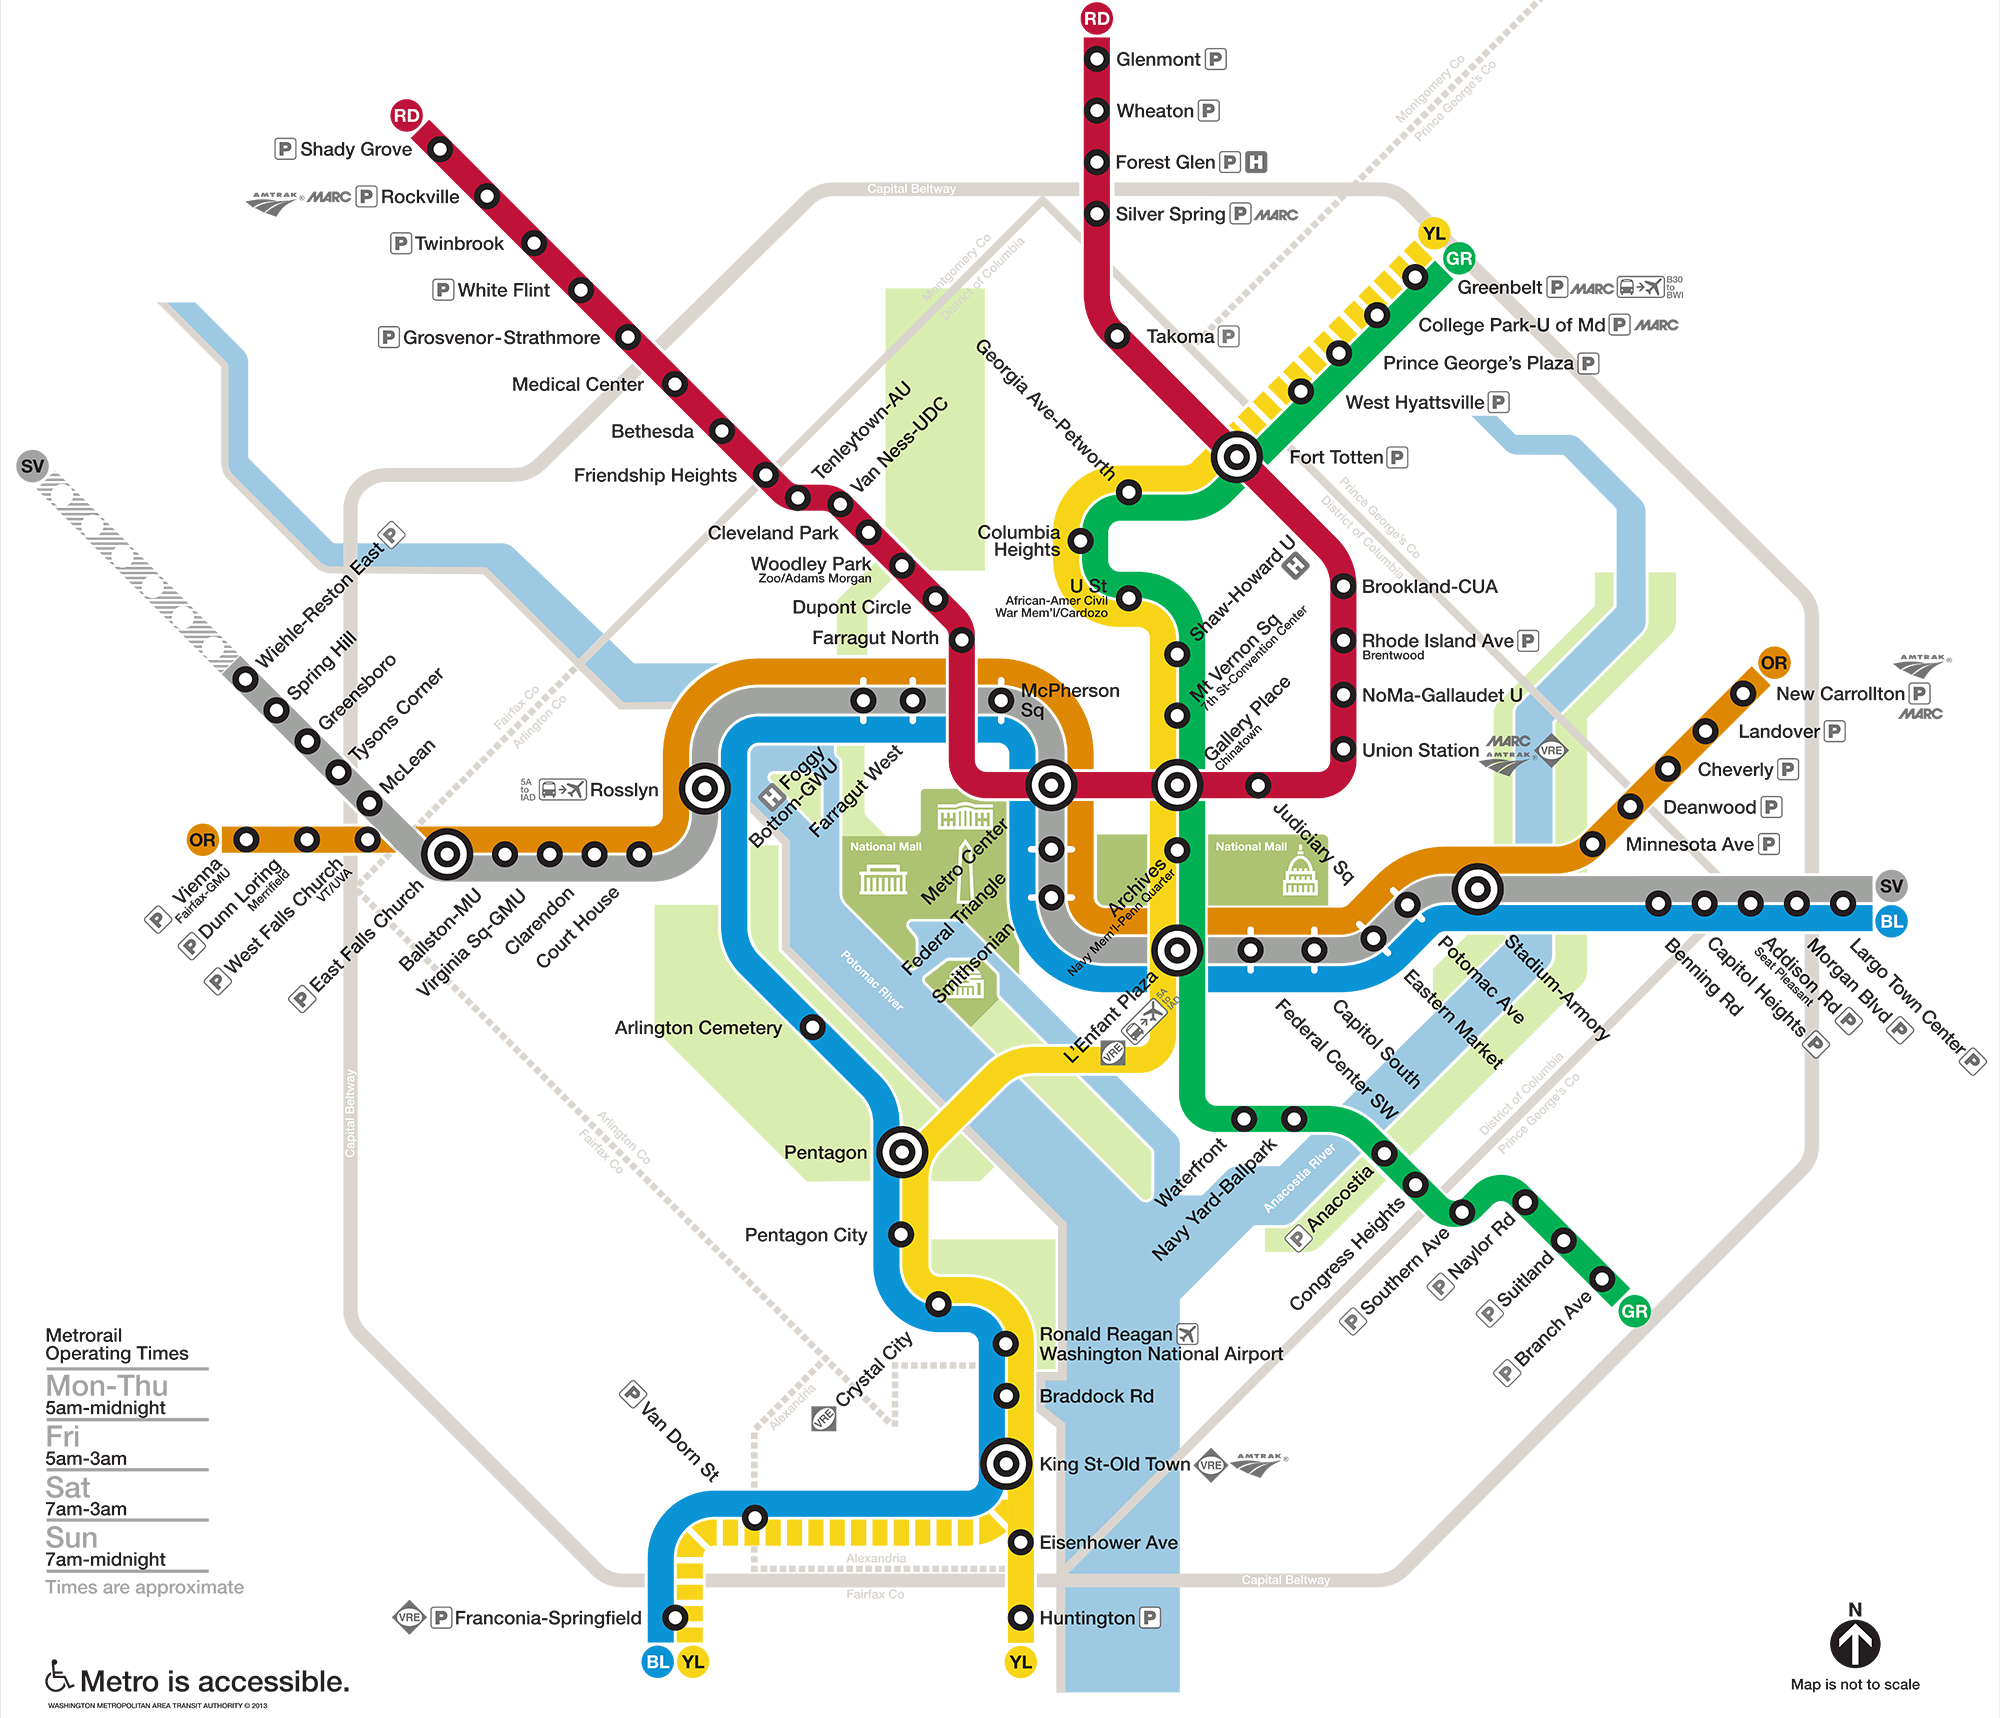
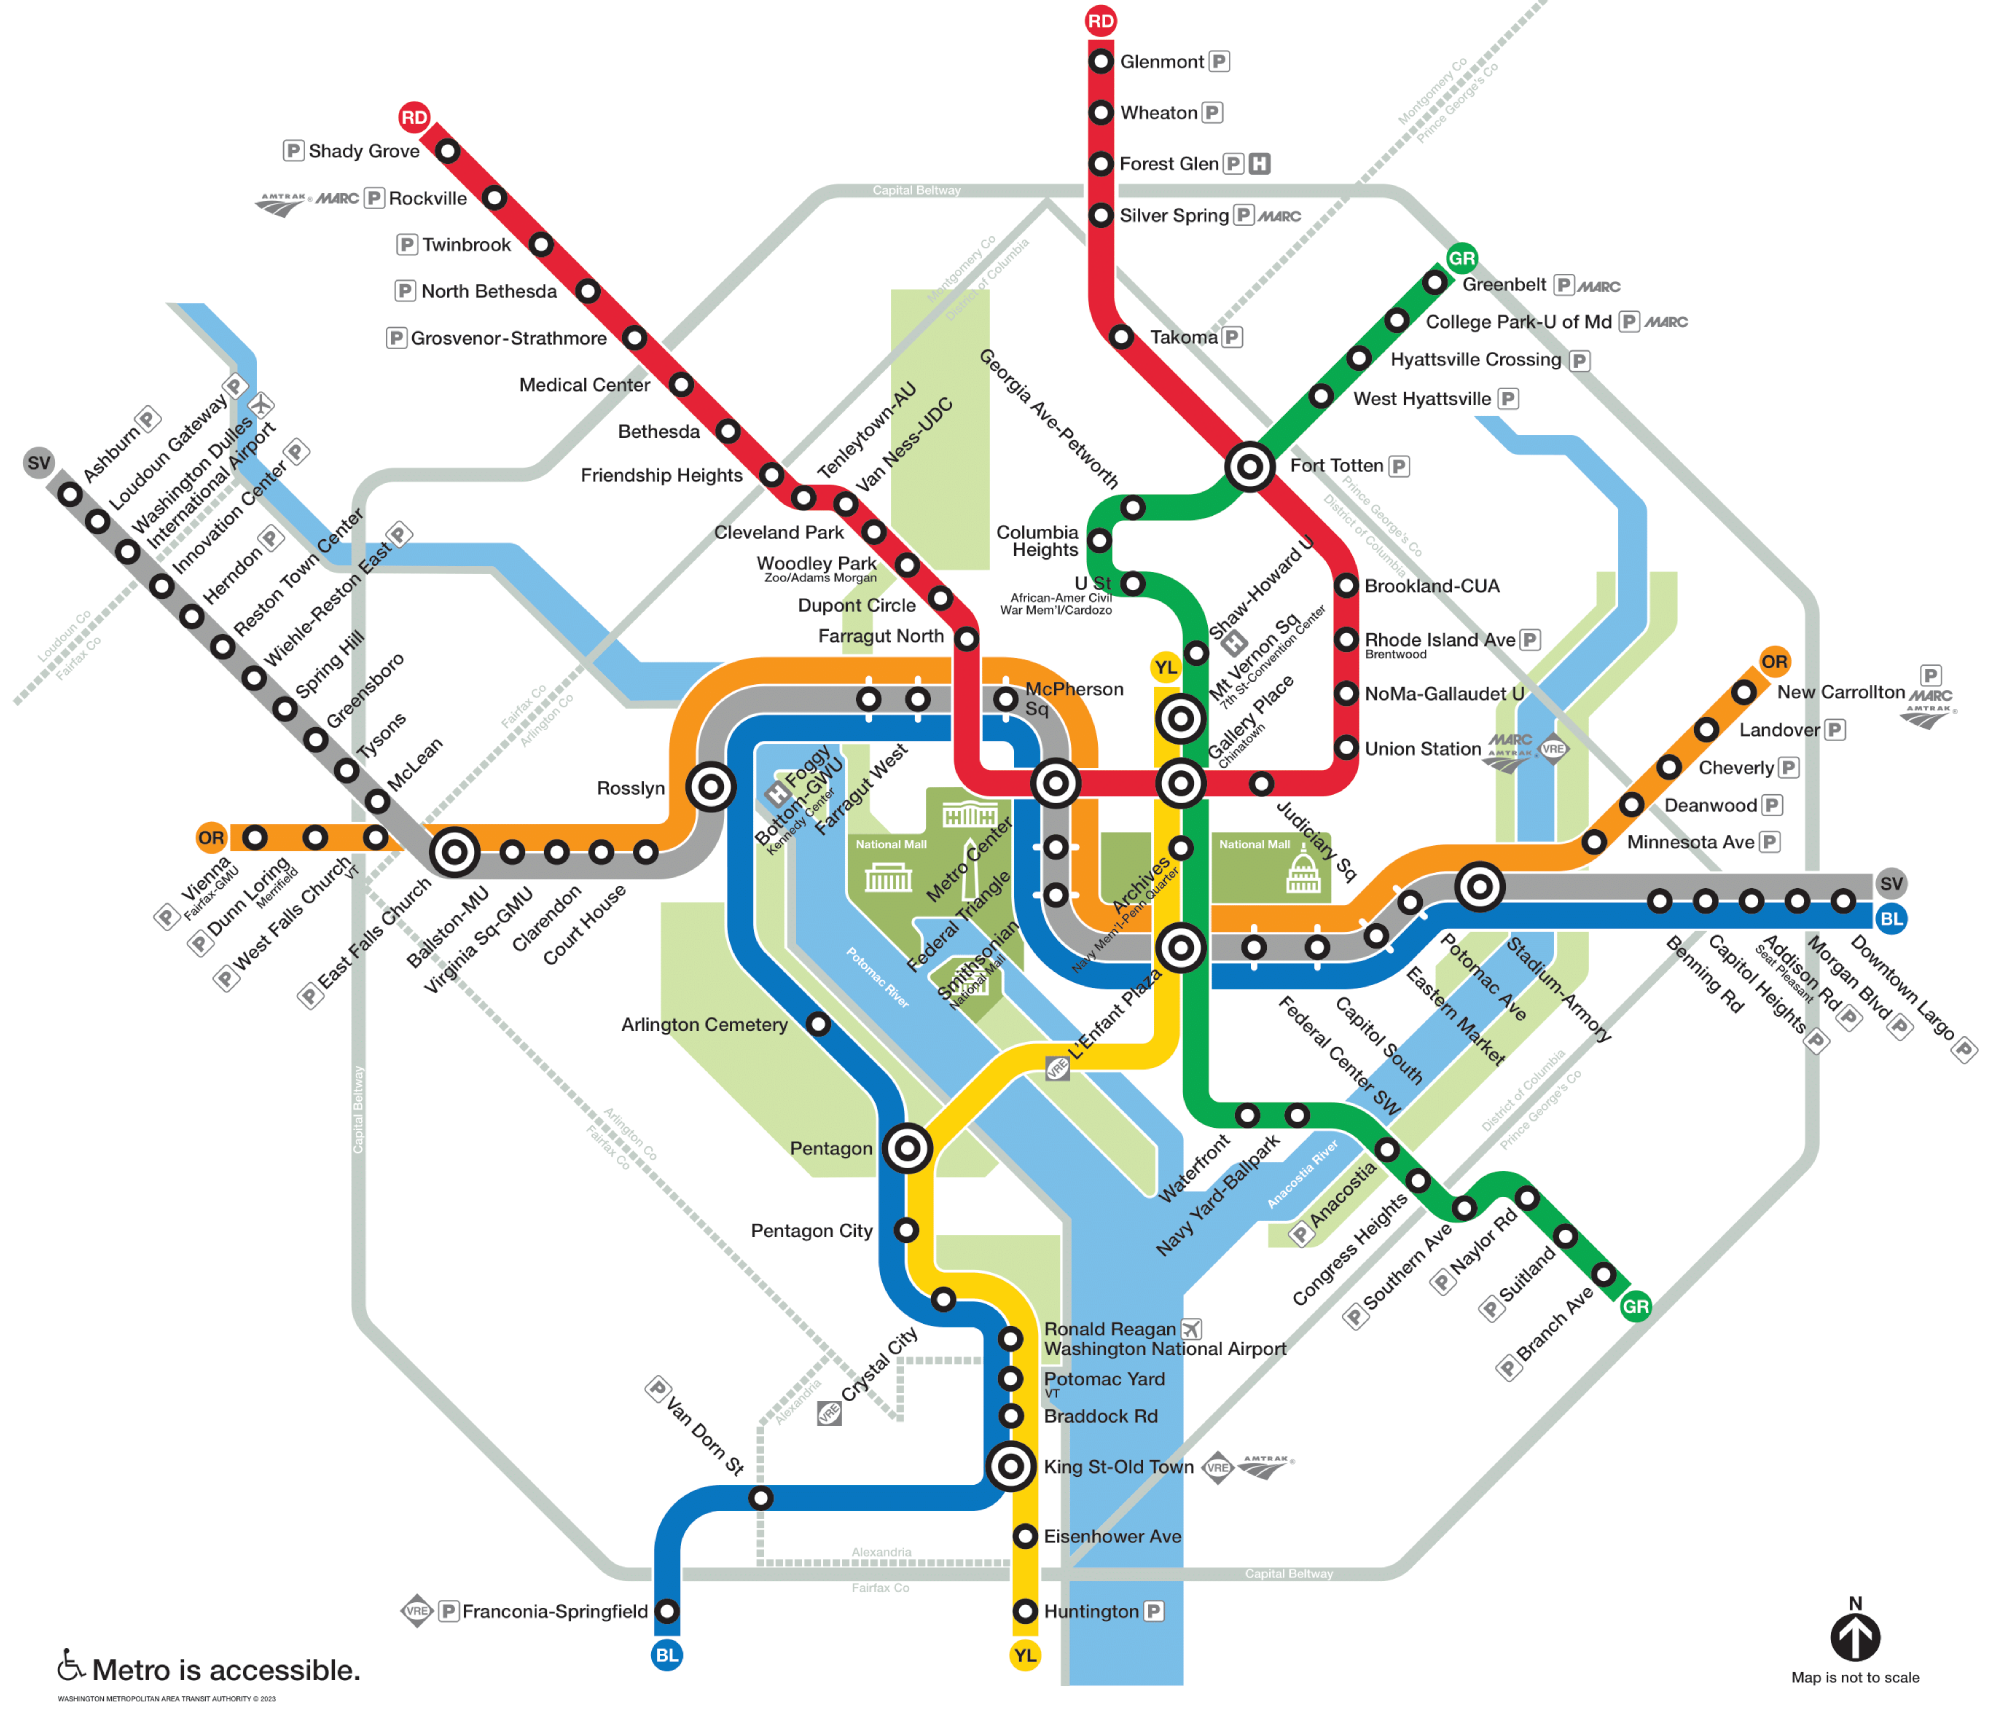
Add the rest of the silver line

diff --git a/dc-metro-silver.html b/dc-metro-silver.html
@@ -27,6 +27,12 @@
 <area shape="poly" coords="918,998,1035,882,1084,881,1085,914,939,1017" href="#D02">
 <area shape="poly" coords="917,989,917,989,1035,874,1075,873,1070,830,1037,836,886,963" href="#D01">
 <area shape="poly" coords="899,890,926,923,1098,784,1049,745" href="#C01">
+<area shape="poly" coords="33,491,156,378,185,408,64,523" href="#N12">
+<area shape="poly" coords="63,525,91,555,273,375,250,346" href="#N11">
+<area shape="poly" coords="93,557,125,590,305,408,278,373" href="#N10">
+<area shape="poly" coords="126,592,158,619,338,445,308,412" href="#N09">
+<area shape="poly" coords="160,622,186,654,363,475,340,449" href="#N08">
+<area shape="poly" coords="190,656,218,682,395,506,367,481" href="#N07">
 <area shape="poly" coords="219,677,243,708,422,534,392,509" href="#N06">
 <area shape="poly" coords="247,712,272,734,382,631,352,609" href="#N04">
 <area shape="poly" coords="282,738,304,765,417,657,389,637" href="#N03">

diff --git a/Classes/MetroTabBarAppDelegate.m b/Classes/MetroTabBarAppDelegate.m
@@ -41,6 +41,7 @@
   [self.listOfStations addObject:[NSDictionary dictionaryWithObjectsAndKeys:@"Anacostia", @"name", @"F06", @"site", @"g", @"colorImage", nil]];
   [self.listOfStations addObject:[NSDictionary dictionaryWithObjectsAndKeys:@"Archives-Navy Memorial-Penn Quarter", @"name", @"F02", @"site", @"gy", @"colorImage", nil]];
   [self.listOfStations addObject:[NSDictionary dictionaryWithObjectsAndKeys:@"Arlington Cemetery", @"name", @"C06", @"site", @"b", @"colorImage", nil]];
+  [self.listOfStations addObject:[NSDictionary dictionaryWithObjectsAndKeys:@"Ashburn", @"name", @"N12", @"site", @"s", @"colorImage", nil]];
   [self.listOfStations addObject:[NSDictionary dictionaryWithObjectsAndKeys:@"Ballston-MU", @"name", @"K04", @"site", @"o", @"colorImage", nil]];
   [self.listOfStations addObject:[NSDictionary dictionaryWithObjectsAndKeys:@"Benning Road", @"name", @"G01", @"site", @"b", @"colorImage", nil]];
   [self.listOfStations addObject:[NSDictionary dictionaryWithObjectsAndKeys:@"Bethesda", @"name", @"A09", @"site", @"r", @"colorImage", nil]];
@@ -78,12 +79,15 @@
   [self.listOfStations addObject:[NSDictionary dictionaryWithObjectsAndKeys:@"Greenbelt", @"name", @"E10", @"site", @"g", @"colorImage", nil]];
   [self.listOfStations addObject:[NSDictionary dictionaryWithObjectsAndKeys:@"Greensboro", @"name", @"N03", @"site", @"s", @"colorImage", nil]];
   [self.listOfStations addObject:[NSDictionary dictionaryWithObjectsAndKeys:@"Grosvenor-Strathmore", @"name", @"A11", @"site", @"r", @"colorImage", nil]];
+  [self.listOfStations addObject:[NSDictionary dictionaryWithObjectsAndKeys:@"Herndon", @"name", @"N08", @"site", @"s", @"colorImage", nil]];
   [self.listOfStations addObject:[NSDictionary dictionaryWithObjectsAndKeys:@"Huntington", @"name", @"C15", @"site", @"y", @"colorImage", nil]];
+  [self.listOfStations addObject:[NSDictionary dictionaryWithObjectsAndKeys:@"Innovation Center", @"name", @"N09", @"site", @"s", @"colorImage", nil]];
   [self.listOfStations addObject:[NSDictionary dictionaryWithObjectsAndKeys:@"Judiciary Square", @"name", @"B02", @"site", @"r", @"colorImage", nil]];
   [self.listOfStations addObject:[NSDictionary dictionaryWithObjectsAndKeys:@"King St-Old Town", @"name", @"C13", @"site", @"by", @"colorImage", nil]];
   [self.listOfStations addObject:[NSDictionary dictionaryWithObjectsAndKeys:@"L'Enfant Plaza", @"name", @"F03,D03", @"site", @"bogy", @"colorImage", nil]];
   [self.listOfStations addObject:[NSDictionary dictionaryWithObjectsAndKeys:@"Landover", @"name", @"D12", @"site", @"o", @"colorImage", nil]];
   [self.listOfStations addObject:[NSDictionary dictionaryWithObjectsAndKeys:@"Largo Town Center", @"name", @"G05", @"site", @"b", @"colorImage", nil]];
+  [self.listOfStations addObject:[NSDictionary dictionaryWithObjectsAndKeys:@"Loudon Gateway", @"name", @"N11", @"site", @"s", @"colorImage", nil]];
   [self.listOfStations addObject:[NSDictionary dictionaryWithObjectsAndKeys:@"McLean", @"name", @"N01", @"site", @"s", @"colorImage", nil]];
   [self.listOfStations addObject:[NSDictionary dictionaryWithObjectsAndKeys:@"McPherson Square", @"name", @"C02", @"site", @"bo", @"colorImage", nil]];
   [self.listOfStations addObject:[NSDictionary dictionaryWithObjectsAndKeys:@"Medical Center", @"name", @"A10", @"site", @"r", @"colorImage", nil]];
@@ -99,6 +103,7 @@
   [self.listOfStations addObject:[NSDictionary dictionaryWithObjectsAndKeys:@"Pentagon City", @"name", @"C08", @"site", @"by", @"colorImage", nil]];
   [self.listOfStations addObject:[NSDictionary dictionaryWithObjectsAndKeys:@"Potomac Ave", @"name", @"D07", @"site", @"bo", @"colorImage", nil]];
   [self.listOfStations addObject:[NSDictionary dictionaryWithObjectsAndKeys:@"Prince George's Plaza", @"name", @"E08", @"site", @"g", @"colorImage", nil]];
+  [self.listOfStations addObject:[NSDictionary dictionaryWithObjectsAndKeys:@"Reston Town Center", @"name", @"N07", @"site", @"s", @"colorImage", nil]];
   [self.listOfStations addObject:[NSDictionary dictionaryWithObjectsAndKeys:@"Rhode Island Ave-Brentwood", @"name", @"B04", @"site", @"r", @"colorImage", nil]];
   [self.listOfStations addObject:[NSDictionary dictionaryWithObjectsAndKeys:@"Rockville", @"name", @"A14", @"site", @"r", @"colorImage", nil]];
   [self.listOfStations addObject:[NSDictionary dictionaryWithObjectsAndKeys:@"Ronald Reagan Washington National Airport", @"name", @"C10", @"site", @"by", @"colorImage", nil]];
@@ -121,6 +126,7 @@
   [self.listOfStations addObject:[NSDictionary dictionaryWithObjectsAndKeys:@"Van Ness-UDC", @"name", @"A06", @"site", @"r", @"colorImage", nil]];
   [self.listOfStations addObject:[NSDictionary dictionaryWithObjectsAndKeys:@"Vienna/Fairfax-GMU", @"name", @"K08", @"site", @"o", @"colorImage", nil]];
   [self.listOfStations addObject:[NSDictionary dictionaryWithObjectsAndKeys:@"Virginia Square-GMU", @"name", @"K03", @"site", @"o", @"colorImage", nil]];
+  [self.listOfStations addObject:[NSDictionary dictionaryWithObjectsAndKeys:@"Washingotn Dulles International Airport", @"name", @"N10", @"site", @"s", @"colorImage", nil]];
   [self.listOfStations addObject:[NSDictionary dictionaryWithObjectsAndKeys:@"Waterfront", @"name", @"F04", @"site", @"g", @"colorImage", nil]];
   [self.listOfStations addObject:[NSDictionary dictionaryWithObjectsAndKeys:@"West Falls Church-VT/UVA", @"name", @"K06", @"site", @"o", @"colorImage", nil]];
   [self.listOfStations addObject:[NSDictionary dictionaryWithObjectsAndKeys:@"West Hyattsville", @"name", @"E07", @"site", @"g", @"colorImage", nil]];
@@ -135,6 +141,7 @@
   [self.listofStationsMap addObject:@{@"old_id": @"85", @"new_id": @"F06", @"new_name": @"Anacostia"}];
   [self.listofStationsMap addObject:@{@"old_id": @"81", @"new_id": @"F02", @"new_name": @"Archives-Navy Memorial-Penn Quarter"}];
   [self.listofStationsMap addObject:@{@"old_id": @"42", @"new_id": @"C06", @"new_name": @"Arlington Cemetery"}];
+  [self.listofStationsMap addObject:@{@"old_id": @"121", @"new_id": @"N12", @"new_name": @"Ashburn"}];
   [self.listofStationsMap addObject:@{@"old_id": @"99", @"new_id": @"K04", @"new_name": @"Ballston-MU"}];
   [self.listofStationsMap addObject:@{@"old_id": @"90", @"new_id": @"G01", @"new_name": @"Benning Road"}];
   [self.listofStationsMap addObject:@{@"old_id": @"12", @"new_id": @"A09", @"new_name": @"Bethesda"}];
@@ -172,12 +179,15 @@
   [self.listofStationsMap addObject:@{@"old_id": @"80", @"new_id": @"E10", @"new_name": @"Greenbelt"}];
   [self.listofStationsMap addObject:@{@"old_id": @"113", @"new_id": @"N03", @"new_name": @"Greensboro"}];
   [self.listofStationsMap addObject:@{@"old_id": @"14", @"new_id": @"A11", @"new_name": @"Grosvenor-Strathmore"}];
+  [self.listofStationsMap addObject:@{@"old_id": @"117", @"new_id": @"N08", @"new_name": @"Herndon"}];
   [self.listofStationsMap addObject:@{@"old_id": @"50", @"new_id": @"C15", @"new_name": @"Huntington"}];
+  [self.listofStationsMap addObject:@{@"old_id": @"118", @"new_id": @"N09", @"new_name": @"Innovation Center"}];
   [self.listofStationsMap addObject:@{@"old_id": @"23", @"new_id": @"B02", @"new_name": @"Judiciary Square"}];
   [self.listofStationsMap addObject:@{@"old_id": @"48", @"new_id": @"C13", @"new_name": @"King St-Old Town"}];
   [self.listofStationsMap addObject:@{@"old_id": @"82", @"new_id": @"F03,D03", @"new_name": @"L'Enfant Plaza"}];
   [self.listofStationsMap addObject:@{@"old_id": @"67", @"new_id": @"D12", @"new_name": @"Landover"}];
   [self.listofStationsMap addObject:@{@"old_id": @"109", @"new_id": @"G05", @"new_name": @"Largo Town Center"}];
+  [self.listofStationsMap addObject:@{@"old_id": @"120", @"new_id": @"N11", @"new_name": @"Loudon Gateway"}];
   [self.listofStationsMap addObject:@{@"old_id": @"111", @"new_id": @"N01", @"new_name": @"McLean"}];
   [self.listofStationsMap addObject:@{@"old_id": @"36", @"new_id": @"C02", @"new_name": @"McPherson Square"}];
   [self.listofStationsMap addObject:@{@"old_id": @"13", @"new_id": @"A10", @"new_name": @"Medical Center"}];
@@ -193,6 +203,7 @@
   [self.listofStationsMap addObject:@{@"old_id": @"44", @"new_id": @"C08", @"new_name": @"Pentagon City"}];
   [self.listofStationsMap addObject:@{@"old_id": @"61", @"new_id": @"D07", @"new_name": @"Potomac Ave"}];
   [self.listofStationsMap addObject:@{@"old_id": @"78", @"new_id": @"E08", @"new_name": @"Prince George's Plaza"}];
+  [self.listofStationsMap addObject:@{@"old_id": @"116", @"new_id": @"N07", @"new_name": @"Reston Town Center"}];
   [self.listofStationsMap addObject:@{@"old_id": @"26", @"new_id": @"B04", @"new_name": @"Rhode Island Ave-Brentwood"}];
   [self.listofStationsMap addObject:@{@"old_id": @"17", @"new_id": @"A14", @"new_name": @"Rockville"}];
   [self.listofStationsMap addObject:@{@"old_id": @"93", @"new_id": @"C10", @"new_name": @"Ronald Reagan Washington National Airport"}];
@@ -215,6 +226,7 @@
   [self.listofStationsMap addObject:@{@"old_id": @"9", @"new_id": @"A06", @"new_name": @"Van Ness-UDC"}];
   [self.listofStationsMap addObject:@{@"old_id": @"103", @"new_id": @"K08", @"new_name": @"Vienna/Fairfax-GMU"}];
   [self.listofStationsMap addObject:@{@"old_id": @"98", @"new_id": @"K03", @"new_name": @"Virginia Square-GMU"}];
+  [self.listofStationsMap addObject:@{@"old_id": @"119", @"new_id": @"N10", @"new_name": @"Washington Dulles International Airport"}];
   [self.listofStationsMap addObject:@{@"old_id": @"83", @"new_id": @"F04", @"new_name": @"Waterfront"}];
   [self.listofStationsMap addObject:@{@"old_id": @"101", @"new_id": @"K06", @"new_name": @"West Falls Church-VT/UVA"}];
   [self.listofStationsMap addObject:@{@"old_id": @"77", @"new_id": @"E07", @"new_name": @"West Hyattsville"}];
